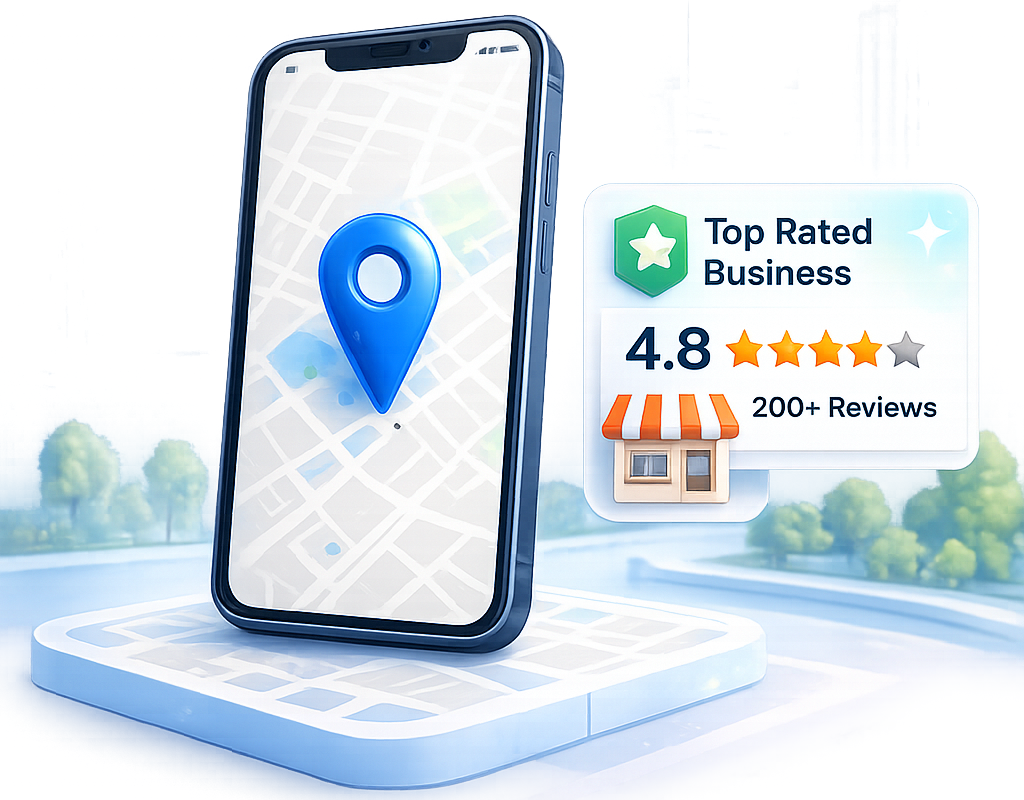
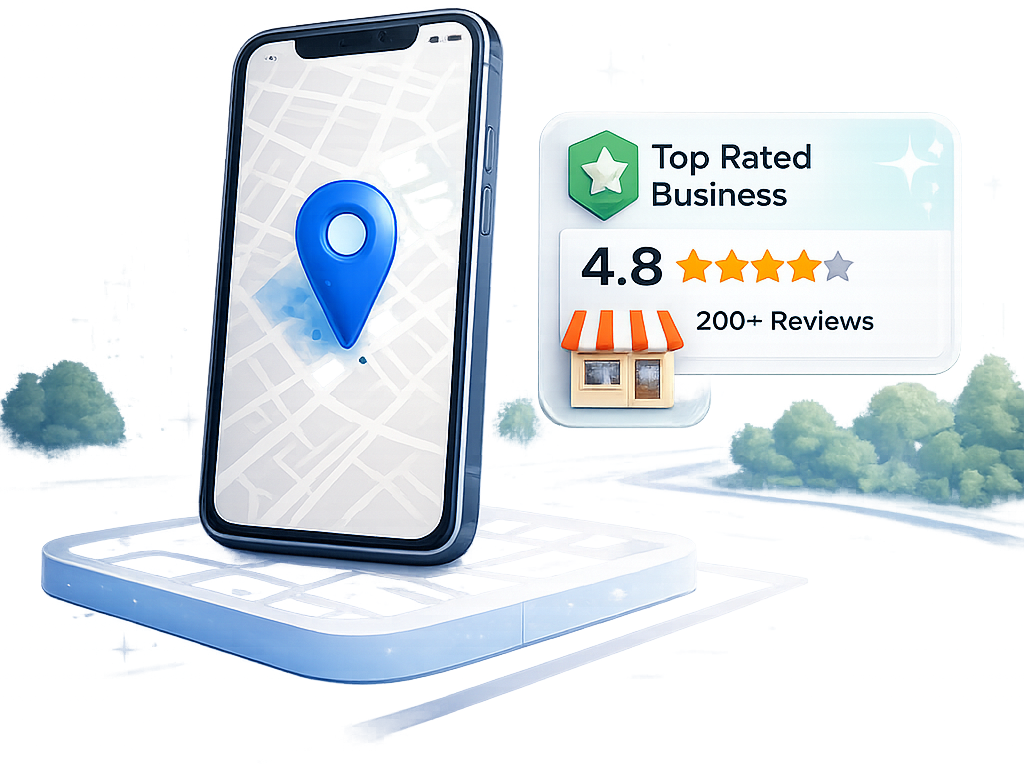
clean up

diff --git a/components/MobileHome.tsx b/components/MobileHome.tsx
@@ -118,30 +118,32 @@ export default function MobileHome({
 
         <div className="relative z-[2] pt-[4.5rem]">
           <div className="pl-4 pr-1">
-            <div className="max-w-[54%]">
-              <h1 className="text-left text-[21px] font-extrabold leading-[1.12] tracking-tight text-[#0f172a]">
-                Find trusted{' '}
-                <span className="text-[#2563eb]">businesses near you</span>
+            <div className="max-w-[62%]">
+              <h1 className="text-left text-[20px] font-extrabold leading-[1.15] tracking-tight">
+                <span className="block whitespace-nowrap text-[#0f172a]">
+                  Find trusted businesses
+                </span>
+                <span className="mt-0.5 block text-[#2563eb]">near you</span>
               </h1>
               <p className="mt-1 text-left text-[12px] leading-snug text-[#64748b]">
                 Search millions of listings across India
               </p>
 
-              <div className="mt-3 flex gap-1">
+              <div className="mt-2.5 flex gap-0.5">
                 {HERO_TRUST_BADGES.map(
                   ({ title, subtitle, icon: Icon, badgeBg, iconWrap, iconColor }) => (
                     <div
                       key={title}
-                      className={`flex min-w-0 flex-1 items-center gap-1 rounded-md px-1 py-1 ${badgeBg}`}
+                      className={`flex min-w-0 flex-1 items-center gap-0.5 rounded px-0.5 py-0.5 ${badgeBg}`}
                     >
                       <div
-                        className={`flex h-6 w-6 shrink-0 items-center justify-center rounded-full ${iconWrap}`}
+                        className={`flex h-5 w-5 shrink-0 items-center justify-center rounded-full ${iconWrap}`}
                       >
-                        <Icon size={12} className={iconColor} strokeWidth={2.5} />
+                        <Icon size={10} className={iconColor} strokeWidth={2.5} />
                       </div>
-                      <div className="min-w-0 leading-none">
-                        <p className="text-[9px] font-bold text-[#0f172a]">{title}</p>
-                        <p className="mt-px truncate text-[7px] text-[#94a3b8]">{subtitle}</p>
+                      <div className="min-w-0 leading-[1.05]">
+                        <p className="text-[8px] font-bold text-[#0f172a]">{title}</p>
+                        <p className="text-[6px] text-[#94a3b8]">{subtitle}</p>
                       </div>
                     </div>
                   )
